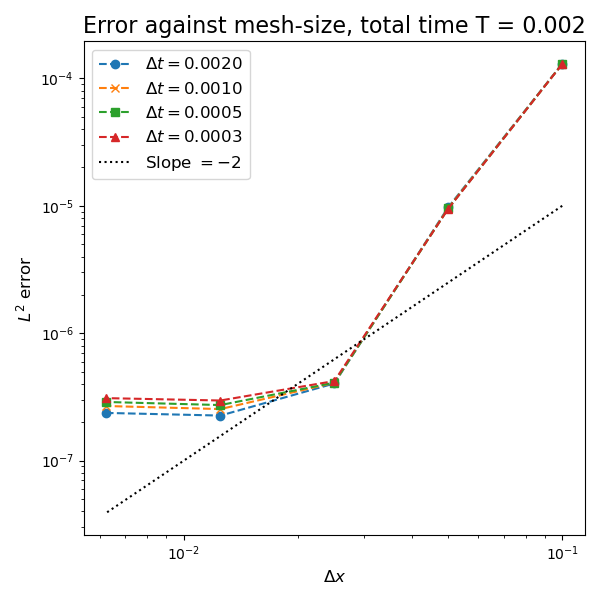
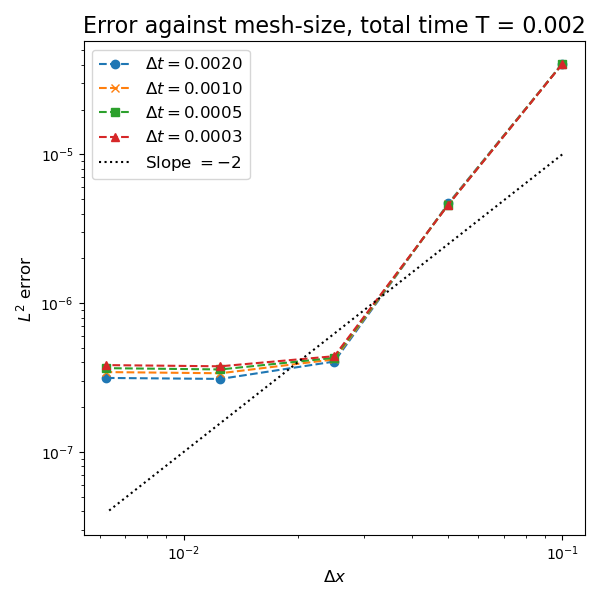
inner iterations

diff --git a/AI4Flood/richards_functions.py b/AI4Flood/richards_functions.py
@@ -184,6 +184,7 @@ class AIRichards(nn.Module):
         self.y = y
 
         #self.g = g
+    '''
 
     def forward(self, uold, t, dt, imax=100):
         """Here we use a Jacobi iteration with an L method to solve richard's equation."""
@@ -199,6 +200,8 @@ class AIRichards(nn.Module):
             # Right hand side of Jacobi iteration
 
             uuj = dirichlet_boundary_condition(uj, u_exact(self.x, self.y, t + dt))
+
+
             div_k_grad_uj = - 0.5 * (self.diff(Kappa(uuj) * uuj) + Kappa(uj) * self.diff(uuj) - uj * self.diff(Kappa(uuj)))
 
             RHS =  self.cmm(theta(uuold) - theta(uuj)) + dt * div_k_grad_uj
@@ -214,6 +217,54 @@ class AIRichards(nn.Module):
             uj.data.copy_(ujplus.data)
 
         return ujplus, i 
+    '''
+    
+    def forward(self, uold, t, dt, imax=100):
+        """Here we use a Jacobi iteration with an L method to solve richard's equation."""
+        L = 2 # lipschitz constant for L method
+        omega = 0.5 # damping parameter
+        uuold   = dirichlet_boundary_condition(uold, u_exact(self.x, self.y, t)) # apply dirichlet bc to u^n-1
+
+        uj = torch.zeros_like(uold, device=device)
+        uj.data.copy_(uold.data) # initial value
+
+        for j in range(imax):
+
+            uuj = dirichlet_boundary_condition(uj, u_exact(self.x, self.y, t + dt))
+            uiplus = torch.zeros_like(uj, device=device) # set up jacobi iteration
+            ui = torch.zeros_like(uj, device=device) # set up jacobi iteration
+            ui.data.copy_(uj.data)
+
+            # Right hand side of Jacobi iteration - fixed
+            b = L * uj + self.cmm(theta(uuold) - theta(uuj)) 
+
+            for i in range(imax):
+                uui = dirichlet_boundary_condition(ui, u_exact(self.x, self.y, t + dt)) # apply dirichlet boundary condition
+
+                div_k_grad_ui = - 0.5 * (self.diff(Kappa(uuj) * uui) + Kappa(uj) * self.diff(uui) - ui * self.diff(Kappa(uuj)))
+                A = L * ui - dt * div_k_grad_ui
+
+                uiplus.data.copy_(ui.data  + omega * (b - A)) # Jacobi iteration
+
+                print(f"L2 difference is {torch.sqrt(torch.mean((uiplus - ui)**2))}")
+
+                assert torch.isnan(torch.sqrt(torch.mean((uiplus - ui)**2))) == False
+
+                if torch.sqrt(torch.mean((uiplus - ui)**2)) <= 1e-12:
+                    print(f"Inner iterations converged after {i+1} iterations")
+                    break
+
+                ui.data.copy_(uiplus.data)
+
+            if torch.sqrt(torch.mean((uiplus - uj)**2)) <= 1e-12:
+                print(f"Outer iterations converged after {i+1} iterations")
+                break
+
+            #print(f"L2 Difference between uj_plus and u_j is {self.loss(ujplus, uj)}")
+
+            uj.data.copy_(uiplus.data)
+
+        return uiplus, i 
     
 class AIRichardsPC(nn.Module):
     def __init__(self, w1, wm, bias_initializer, x, y):

diff --git a/scripts/Malago_road_overview.py b/scripts/Malago_road_overview.py
@@ -17,25 +17,6 @@ import tomllib
 import argparse
 import AI4Flood.infiltration as infiltration 
 
-parser = argparse.ArgumentParser()
-parser.add_argument(
-    "--config",
-    type=str,
-    action="store",
-    help="name of the parameter file",
-    default="config_rain_garden.toml"
-)
-
-parser.add_argument(
-    "--infiltration",
-    action="store_true",
-    help="whether to apply infiltration to the rain garden"
-)
-
-args, _ = parser.parse_known_args()
-
-with open(args.config, "rb") as f:
-    config = tomllib.load(f)
 
 # Check if GPU is available 
 is_gpu = torch.cuda.is_available()
